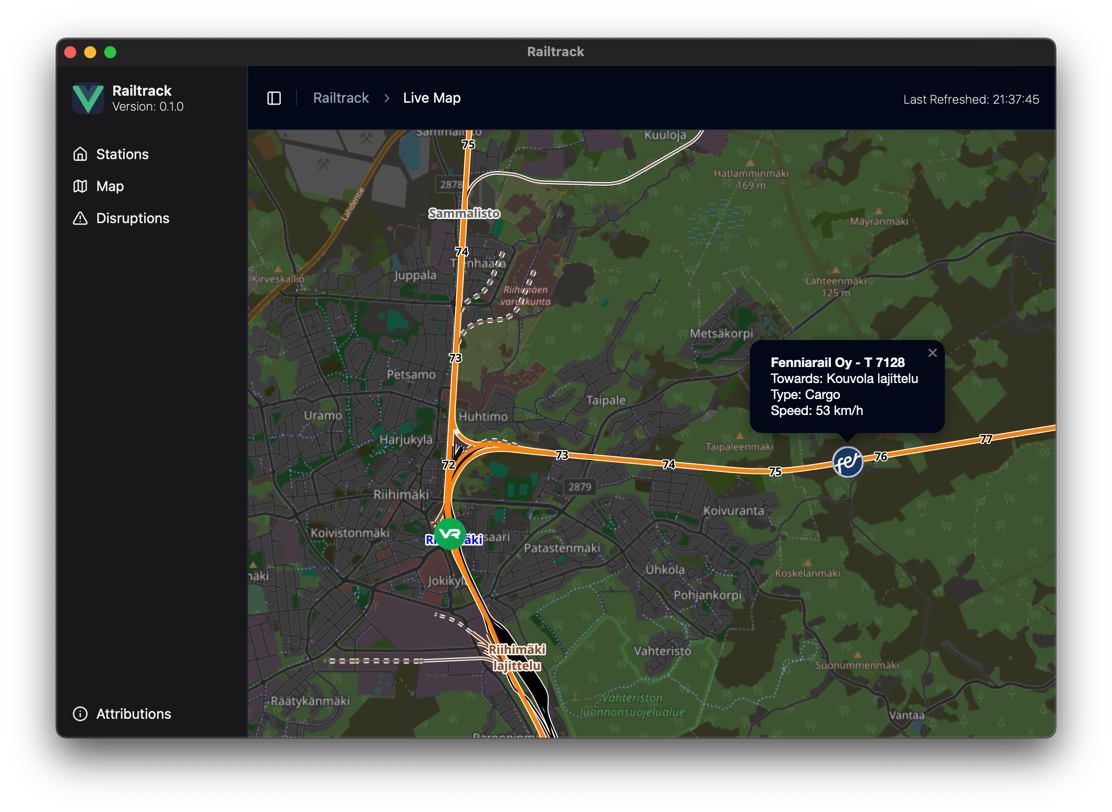
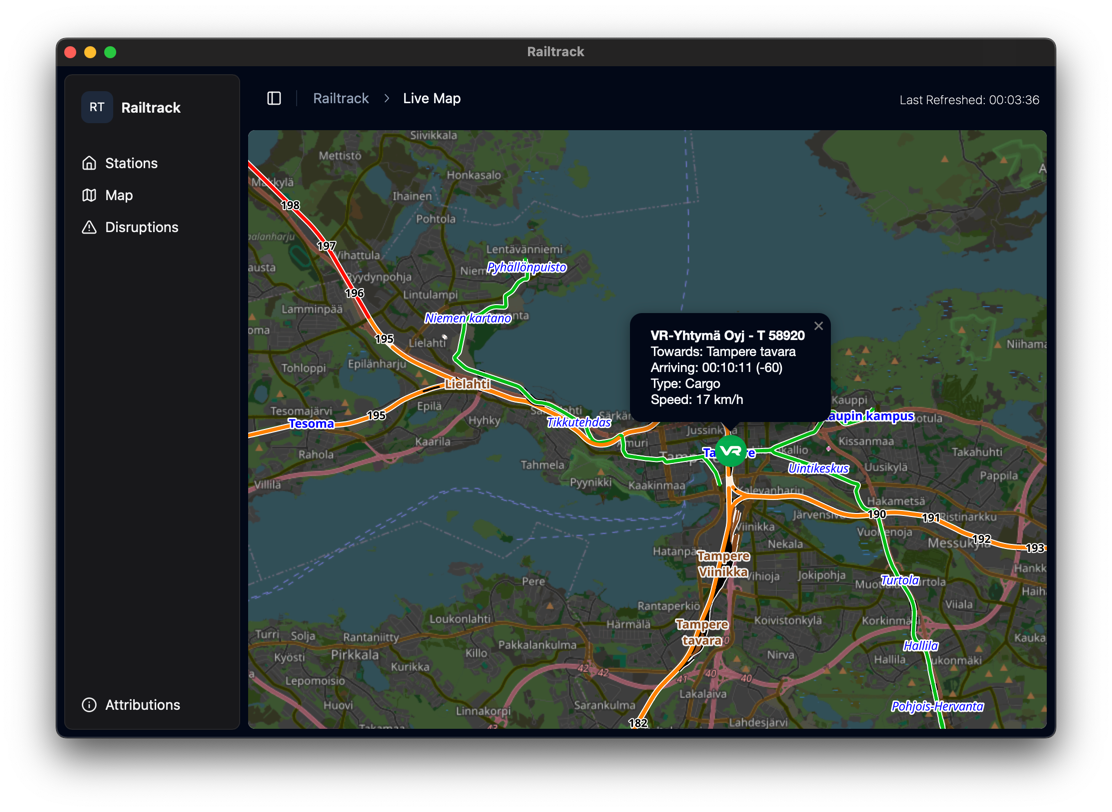
feat: updated sidebar styling

diff --git a/src/App.vue b/src/App.vue
@@ -132,12 +132,11 @@ async function routeTo(link: string) {
             </SidebarMenuItem>
           </SidebarMenu>
         </SidebarFooter>
-        <SidebarRail/>
       </Sidebar>
 
       <!-- Sidebar Inset Config, Routerview and Nav -->
       <SidebarInset>
-        <header class="flex h-16 shrink-0 items-center gap-2 border-b px-4">
+        <header class="flex h-16 shrink-0 items-center gap-2 px-4">
           <SidebarTrigger class="-ml-1"/>
           <Separator orientation="vertical" class="mr-2 h-4"/>
           <Breadcrumb>

diff --git a/src/components/ui/sidebar/utils.ts b/src/components/ui/sidebar/utils.ts
@@ -4,7 +4,7 @@ import { createContext } from 'radix-vue'
 export const SIDEBAR_COOKIE_NAME = 'sidebar:state'
 export const SIDEBAR_COOKIE_MAX_AGE = 60 * 60 * 24 * 7
 export const SIDEBAR_WIDTH = '12rem'
-export const SIDEBAR_WIDTH_MOBILE = '18rem'
+export const SIDEBAR_WIDTH_MOBILE = '12rem'
 export const SIDEBAR_WIDTH_ICON = '3rem'
 export const SIDEBAR_KEYBOARD_SHORTCUT = 'b'
 

diff --git a/src/views/Map.vue b/src/views/Map.vue
@@ -140,9 +140,10 @@ async function refreshFintrafficMarker(map: leaflet.Map, fintrafficMarkers: Map<
 
 <style>
 #map {
-  width: 100%;
   height: 100%;
   z-index: 0;
+  border-radius: 7px;
+  margin: 0 9px 9px 0;
 }
 
 .operator-train-icon {

diff --git a/src/components/ui/sidebar/Sidebar.vue b/src/components/ui/sidebar/Sidebar.vue
@@ -10,7 +10,7 @@ defineOptions({
 
 const props = withDefaults(defineProps<SidebarProps>(), {
   side: 'left',
-  variant: 'sidebar',
+  variant: 'floating',
   collapsible: 'offcanvas',
 })
 
